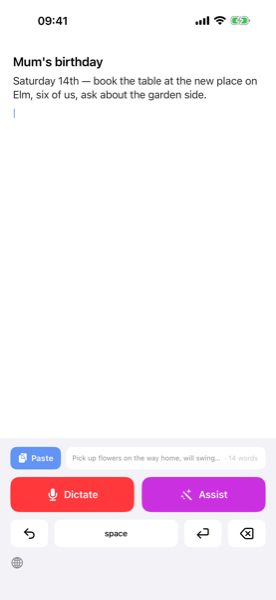
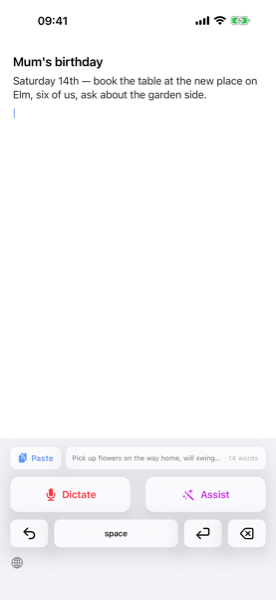
iOS: glassify the keyboard screenshot mockup to match the real keyboard
KeyboardRootView moved to Liquid Glass (glass tiles with tinted glyphs)
but KeyboardShowcase — the screenshot-only mockup — still drew the old
flat solid-fill buttons, so the App Store keyboard shot was stale. Mirror
the real styling: glass Paste / Dictate / Assist / secondary tiles with
accent / red / purple tints instead of solid fills, and refresh the
website thumbnail.

Claude-Session: https://claude.ai/code/session_01HRpFWyfe87KWJb7sNGk4pT

Changed region(s): [[0.029, 0.72, 0.9855, 0.9]]

diff --git a/Sources/DictatorIOS/KeyboardShowcase.swift b/Sources/DictatorIOS/KeyboardShowcase.swift
@@ -11,6 +11,11 @@ import SwiftUI
 /// looks in-context — a faux compose surface up top, the keyboard
 /// down below.
 ///
+/// Mirrors `KeyboardRootView`'s Liquid Glass styling: every tile is a
+/// `.glassEffect` rounded rect with a tinted glyph, not a solid colour
+/// fill. Keep the two in sync — when the real keyboard's look changes,
+/// this mockup has to follow or the screenshot drifts out of date.
+///
 /// Gated behind the `DICTATOR_SCREENSHOT_STATE=keyboard` env var so
 /// only the UI test ever surfaces it.
 struct KeyboardShowcase: View {
@@ -48,9 +53,10 @@ struct KeyboardShowcase: View {
             // pasteboard string itself).
             pasteRow
 
-            // Primary action tiles — compact horizontal pills, not
-            // the big circular buttons the keyboard used to have.
-            HStack(spacing: 12) {
+            // Primary action tiles — glass faces with tinted glyphs,
+            // matching `KeyboardRootView.primaryButton` (24pt gap, as in
+            // its idle row).
+            HStack(spacing: 24) {
                 primary(tint: .red, icon: "mic.fill", label: "Dictate")
                 primary(tint: .purple, icon: "wand.and.stars", label: "Assist")
             }
@@ -61,20 +67,12 @@ struct KeyboardShowcase: View {
                 secondary(icon: "arrow.uturn.backward", label: "Undo")
                 Text("space")
                     .font(.footnote.weight(.medium))
+                    .foregroundStyle(.primary)
                     .frame(maxWidth: .infinity)
                     .frame(height: 44)
-                    .background(
-                        RoundedRectangle(cornerRadius: 10, style: .continuous)
-                            .fill(Color(.tertiarySystemBackground))
-                    )
+                    .glassEffect(.regular, in: .rect(cornerRadius: 10))
                 secondary(icon: "return", label: "Return")
-                Image(systemName: "delete.left")
-                    .font(.system(size: 20, weight: .medium))
-                    .frame(width: 60, height: 44)
-                    .background(
-                        RoundedRectangle(cornerRadius: 10, style: .continuous)
-                            .fill(Color(.tertiarySystemBackground))
-                    )
+                secondary(icon: "delete.left", label: "Backspace")
             }
 
             // "Globe" hint mimicking the system keyboard-switcher row.
@@ -93,8 +91,10 @@ struct KeyboardShowcase: View {
     }
 
     /// Paste button + preview pill, matching `KeyboardRootView.pasteChip`.
-    /// Both render at cornerRadius 10 + fixed 36pt height so they share
-    /// the shape family of the secondary-row tiles below.
+    /// Both render as glass at cornerRadius 10 + fixed 36pt height so they
+    /// share the shape family of the secondary-row tiles below. The Paste
+    /// glyph carries the accent tint (its enabled state) rather than a
+    /// solid accent fill.
     private var pasteRow: some View {
         HStack(spacing: 8) {
             HStack(spacing: 6) {
@@ -103,13 +103,10 @@ struct KeyboardShowcase: View {
                 Text("Paste")
                     .font(.footnote.weight(.semibold))
             }
-            .foregroundStyle(.white)
+            .foregroundStyle(Color.accentColor)
             .padding(.horizontal, 12)
             .frame(height: 36)
-            .background(
-                RoundedRectangle(cornerRadius: 10, style: .continuous)
-                    .fill(Color.accentColor)
-            )
+            .glassEffect(.regular, in: .rect(cornerRadius: 10))
 
             HStack(spacing: 6) {
                 Text("Pick up flowers on the way home, will swing by the place on Elm.")
@@ -123,41 +120,34 @@ struct KeyboardShowcase: View {
             .padding(.horizontal, 10)
             .frame(maxWidth: .infinity, alignment: .leading)
             .frame(height: 36)
-            .background(
-                RoundedRectangle(cornerRadius: 10, style: .continuous)
-                    .fill(Color(.tertiarySystemBackground))
-            )
+            .glassEffect(.regular, in: .rect(cornerRadius: 10))
         }
     }
 
-    /// Compact tile matching `KeyboardRootView.primaryButton`. Icon +
-    /// label on a 56pt-tall coloured rounded rectangle.
+    /// Compact tile matching `KeyboardRootView.primaryButton`: a glass
+    /// face with a tinted icon + label, 56pt tall — not a solid colour
+    /// fill with a white glyph.
     private func primary(tint: Color, icon: String, label: String) -> some View {
         HStack(spacing: 8) {
             Image(systemName: icon)
                 .font(.system(size: 18, weight: .semibold))
-                .foregroundStyle(.white)
             Text(label)
                 .font(.callout.weight(.semibold))
-                .foregroundStyle(.white)
         }
+        .foregroundStyle(tint)
         .frame(maxWidth: .infinity)
         .frame(height: 56)
-        .background(
-            RoundedRectangle(cornerRadius: 14, style: .continuous)
-                .fill(tint)
-        )
+        .glassEffect(.regular, in: .rect(cornerRadius: 14))
     }
 
+    /// Icon-only glass tile matching `KeyboardRootView.secondaryButton`
+    /// and `backspaceButton` — 60×44, cornerRadius 10.
     private func secondary(icon: String, label: String) -> some View {
         Image(systemName: icon)
-            .font(.system(size: 18, weight: .medium))
+            .font(.system(size: 20, weight: .medium))
             .foregroundStyle(.primary)
             .frame(width: 60, height: 44)
-            .background(
-                RoundedRectangle(cornerRadius: 10, style: .continuous)
-                    .fill(Color(.tertiarySystemBackground))
-            )
+            .glassEffect(.regular, in: .rect(cornerRadius: 10))
             .accessibilityLabel(label)
     }
 }
